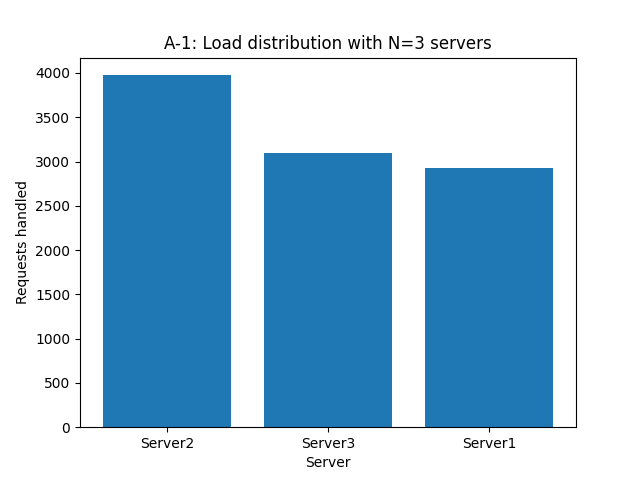
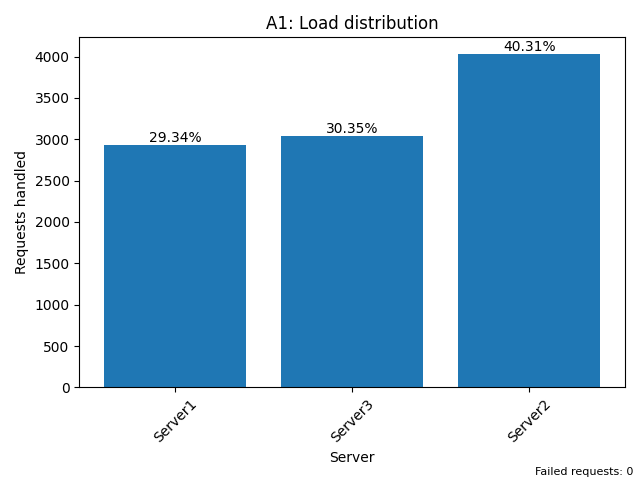
reconducted A1 and A2 and results are saved

diff --git a/Analysis/A2.py b/Analysis/A2.py
@@ -4,69 +4,66 @@ import requests
 import matplotlib.pyplot as plt
 from collections import Counter
 import random
-import time
 
 LB_URL = "http://localhost:8000"
 
 def parse_server_id(data):
     msg = data.get("message", "")
-    if msg.startswith("Hello from server:"):
+    if isinstance(msg, str) and msg.startswith("Hello from server:"):
         return msg.replace("Hello from server:", "").strip()
     return None
 
 async def send_request(session, request_id, path="/home"):
-    async with session.get(f"{LB_URL}{path}?rid={request_id}") as resp:
-        if resp.status != 200:
-            return None
-        data = await resp.json()
-        return parse_server_id(data)
+    try:
+        async with session.get(f"{LB_URL}{path}?rid={request_id}") as resp:
+            if resp.status != 200:
+                return None
+            data = await resp.json()
+            return parse_server_id(data)
+    except Exception:
+        return None
 
-async def run_experiment(num_requests=1000): # only 1000 requests
+async def run_experiment(num_requests=10000):
     async with aiohttp.ClientSession() as session:
         tasks = [send_request(session, random.randint(1, 1_000_000)) for _ in range(num_requests)]
         results = await asyncio.gather(*tasks)
-    return Counter([r for r in results if r])
+    return Counter([r for r in results if r]), sum(r is None for r in results)
 
 def set_servers(n):
-    # clear all
+    # clear existing
     resp = requests.get(f"{LB_URL}/rep").json()
     existing = resp["message"]["replicas"]
     if existing:
-        requests.delete(f"{LB_URL}/rm", json={"n": len(existing), "hostnames": existing})
+        requests.delete(f"{LB_URL}/rm", json={"n": 9999, "hostnames": existing})
 
-    # add clean Server1..N
+    # add fresh servers
     hostnames = [f"Server{i}" for i in range(1, n + 1)]
     requests.post(f"{LB_URL}/add", json={"n": n, "hostnames": hostnames})
-    time.sleep(3)
-
-def exp_A1():
-    set_servers(3)
-    counts = asyncio.run(run_experiment())
-    print("A-1 Results:", counts)
-
-    plt.bar(counts.keys(), counts.values())
-    plt.title("A-1: Load distribution with N=3 servers")
-    plt.xlabel("Server")
-    plt.ylabel("Requests handled")
-    plt.savefig("A1_bar_chart.png")
-    plt.close()
 
 def exp_A2():
-    for n in [4,6]:
-        print(f"\nRunning experiment with N={n}")
-        set_servers(n)
-        counts = asyncio.run(run_experiment())
-        print(f"A-2 (N={n}) Results:", counts)
+    avg_loads = []
+    num_servers = list(range(2, 7))  # N = 2 → 6
 
-        plt.bar(counts.keys(), counts.values())
-        plt.title(f"A-2: Load distribution with N={n} servers")
-        plt.xlabel("Server")
-        plt.ylabel("Requests handled")
-        plt.savefig(f"A2_N{n}_bar_chart.png")
-        plt.close()
+    for n in num_servers:
+        print(f"Running experiment with N={n} servers...")
+        set_servers(n)
+        counts, failed = asyncio.run(run_experiment())
+
+        total = sum(counts.values())
+        avg = total / n if n > 0 else 0
+        avg_loads.append(avg)
+
+        print(f"N={n}, Avg load={avg}, Failed={failed}")
+
+    # Plot line chart
+    plt.plot(num_servers, avg_loads, marker="o", linestyle="-", color="b")
+    plt.title("A2: Average Load per Server (N=2 to 6)")
+    plt.xlabel("Number of Servers (N)")
+    plt.ylabel("Average Requests per Server")
+    plt.grid(True)
+    plt.savefig("A2_line_chart.png")
+    plt.close()
+    print("Chart saved as A2_line_chart.png")
 
 if __name__ == "__main__":
     exp_A2()
-    print(" Chart saved as A2_bar_chart.png")
-
-

diff --git a/Analysis/A1.py b/Analysis/A1.py
@@ -9,46 +9,66 @@ LB_URL = "http://localhost:8000"
 
 def parse_server_id(data):
     msg = data.get("message", "")
-    if msg.startswith("Hello from server:"):
+    if isinstance(msg, str) and msg.startswith("Hello from server:"):
         return msg.replace("Hello from server:", "").strip()
     return None
 
 async def send_request(session, request_id, path="/home"):
-    async with session.get(f"{LB_URL}{path}?rid={request_id}") as resp:
-        if resp.status != 200:
-            return None
-        data = await resp.json()
-        return parse_server_id(data)
+    try:
+        async with session.get(f"{LB_URL}{path}?rid={request_id}") as resp:
+            if resp.status != 200:
+                return None
+            data = await resp.json()
+            return parse_server_id(data)
+    except Exception:
+        return None
 
 async def run_experiment(num_requests=10000):
     async with aiohttp.ClientSession() as session:
         tasks = [send_request(session, random.randint(1, 1_000_000)) for _ in range(num_requests)]
         results = await asyncio.gather(*tasks)
-    return Counter([r for r in results if r])
+    return Counter([r for r in results if r]), sum(r is None for r in results)
 
 def set_servers(n):
-    # clear all
+    # clear existing
     resp = requests.get(f"{LB_URL}/rep").json()
     existing = resp["message"]["replicas"]
     if existing:
-        requests.delete(f"{LB_URL}/rm", json={"n": len(existing), "hostnames": existing})
+        requests.delete(f"{LB_URL}/rm", json={"n": 9999, "hostnames": existing})
 
-    # add clean Server1..N
+    # add fresh servers
     hostnames = [f"Server{i}" for i in range(1, n + 1)]
     requests.post(f"{LB_URL}/add", json={"n": n, "hostnames": hostnames})
 
-def exp_A1():
-    set_servers(3)
-    counts = asyncio.run(run_experiment())
-    print("A-1 Results:", counts)
-
+def plot_results(name, counts, failed):
+    total = sum(counts.values())
     plt.bar(counts.keys(), counts.values())
-    plt.title("A-1: Load distribution with N=3 servers")
+
+    # add % labels
+    for i, (server, count) in enumerate(counts.items()):
+        plt.text(i, count, f"{count/total:.2%}", ha="center", va="bottom")
+
+    plt.title(f"{name}: Load distribution")
     plt.xlabel("Server")
     plt.ylabel("Requests handled")
-    plt.savefig("A1_bar_chart.png")
+    plt.xticks(rotation=45)
+    plt.tight_layout()
+    plt.figtext(0.99, 0.01, f"Failed requests: {failed}", ha="right", fontsize=8)
+    plt.savefig(f"{name}_bar_chart.png")
     plt.close()
+    print(f"{name} Results:", counts, "| Failed:", failed)
+
+def exp_A1():
+    set_servers(3)
+    counts, failed = asyncio.run(run_experiment())
+    plot_results("A1", counts, failed)
+
+def exp_A2():
+    set_servers(5)
+    counts, failed = asyncio.run(run_experiment())
+    plot_results("A2", counts, failed)
 
 if __name__ == "__main__":
     exp_A1()
-    print("Chart saved as A1_bar_chart.png")
+    exp_A2()
+    print("Charts saved as A1_bar_chart.png and A2_bar_chart.png")
